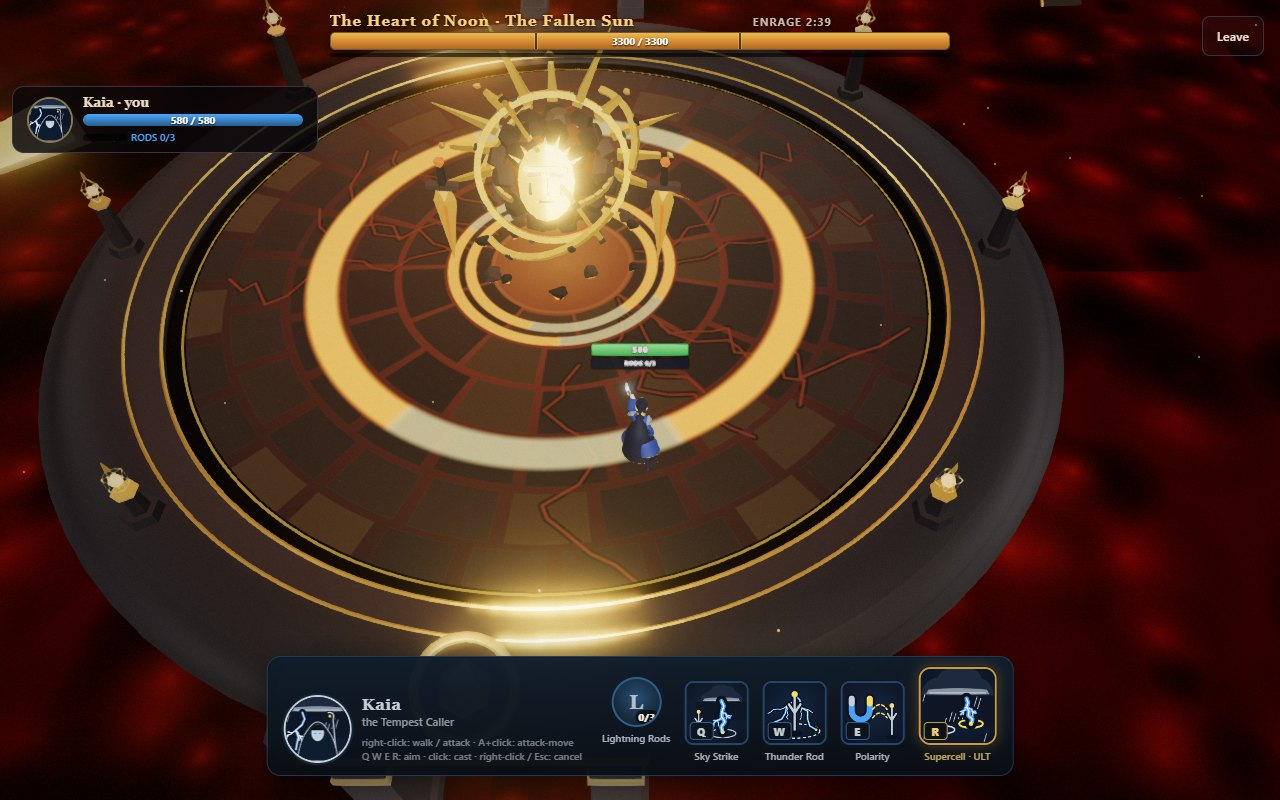
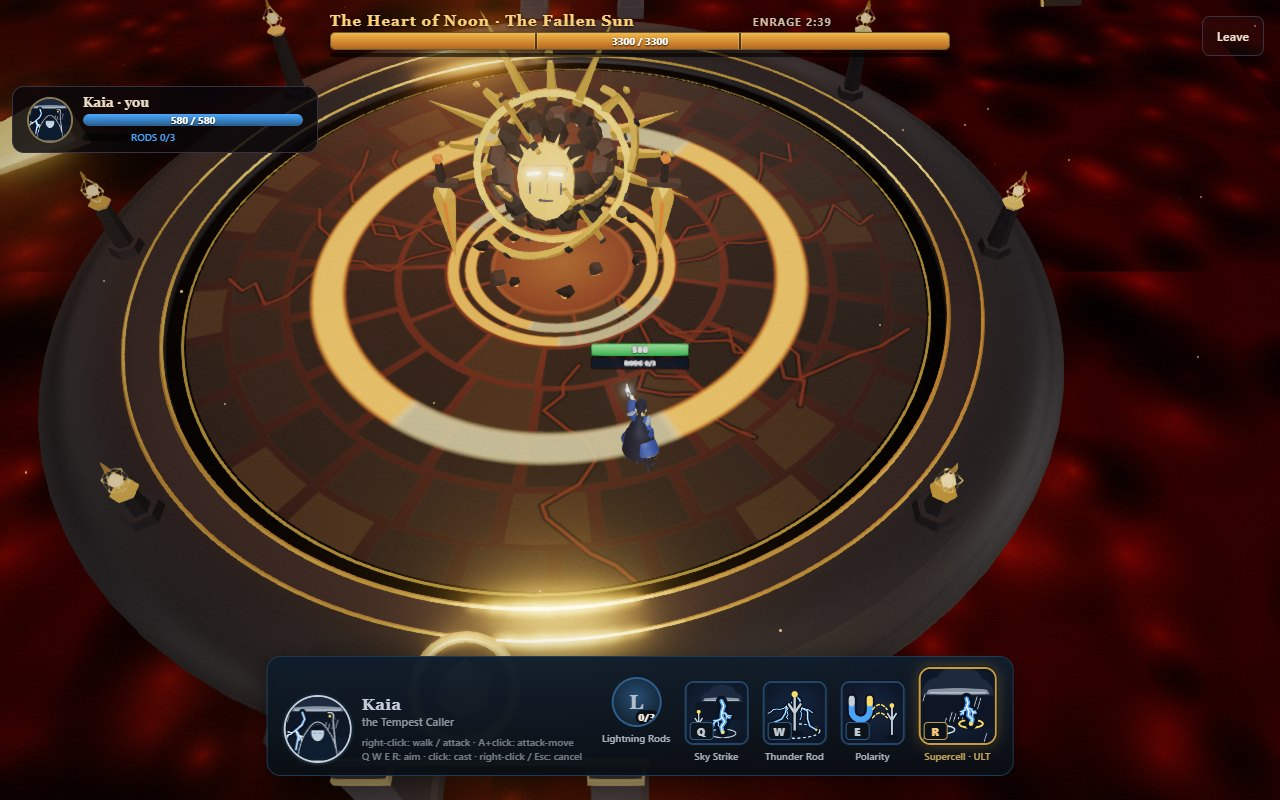
Raid: the Heart's face reads in the game: duller gold, its eyes lit on their own; pictures retaken

Changed region(s): [[0.2188, 0.0625, 0.6562, 0.5938]]

diff --git a/src/raid/bodies/heart.ts b/src/raid/bodies/heart.ts
@@ -28,7 +28,9 @@ const BLADE = { x: 3.15, y: 2.9, z: 0.5 };
 const GLOW_CORE = [0.09, 0.13, 0.19];
 /** However a cast or a beat swells it, the core never glows more than this many times its phase's own. */
 const GLOW_SWELL = 2.2;
-const GLOW_MASK = 0.14;
+const GLOW_MASK = 0.2;
+/** Its eyes, white fire: brighter than the rest of the face, small enough not to bloom it away. */
+const GLOW_EYES = 1.5;
 const GLOW_RING = 0.55;
 const GLOW_BLADE = 0.6;
 
@@ -63,7 +65,7 @@ export function resetHeartLive() {
   HEART_LIVE.struck = 99;
 }
 
-interface Mem { phase: number; kneel: number; spin: number[]; crown: number; beat: number }
+interface Mem { phase: number; kneel: number; spin: number[]; crown: number; beat: number; eyes: THREE.MeshStandardMaterial[] }
 const mem = new WeakMap<BodyParts, Mem>();
 const Q = new THREE.Quaternion();
 const Q2 = new THREE.Quaternion();
@@ -81,6 +83,8 @@ function spin(p: BodyParts, name: string, axis: THREE.Vector3, angle: number) {
  * the camera, caught the light whole and bloomed white, and the face is the point of the figure.
  */
 const MATTE = 0.58;
+const MASK_MATTE = 0.78;
+const MASK_TONE = 0.7;
 function matte(p: BodyParts) {
   for (const name of ['mask', 'crown', 'ringA', 'ringB', 'ringC', 'bladeL', 'bladeR']) {
     p.node(name)?.traverse((o) => {
@@ -88,7 +92,14 @@ function matte(p: BodyParts) {
       if (!mesh.isMesh) return;
       for (const mat of Array.isArray(mesh.material) ? mesh.material : [mesh.material]) {
         const std = mat as THREE.MeshStandardMaterial;
-        if (std.isMeshStandardMaterial && std.metalness > 0.5) std.roughness = Math.max(std.roughness, MATTE);
+        if (!std.isMeshStandardMaterial || std.metalness <= 0.5) continue;
+        std.roughness = Math.max(std.roughness, MATTE);
+        // The face a shade darker and duller still: it faces the camera and the sun at once.
+        if (name === 'mask') {
+          std.roughness = Math.max(std.roughness, MASK_MATTE);
+          std.metalness = Math.min(std.metalness, 0.6);
+          std.color.multiplyScalar(MASK_TONE);
+        }
       }
     });
   }
@@ -97,8 +108,13 @@ function matte(p: BodyParts) {
 export const heartLook: BodyLook = (s, p) => {
   let m = mem.get(p);
   if (!m) {
-    mem.set(p, m = { phase: s.phase, kneel: s.kneeling ? 1 : 0, spin: [0, 0, 0], crown: 0, beat: 0 });
+    mem.set(p, m = { phase: s.phase, kneel: s.kneeling ? 1 : 0, spin: [0, 0, 0], crown: 0, beat: 0, eyes: [] });
     matte(p);
+    p.node('mask')?.traverse((o) => {
+      const mesh = o as THREE.Mesh;
+      if (!mesh.isMesh) return;
+      for (const mat of Array.isArray(mesh.material) ? mesh.material : [mesh.material]) if (mat.name.endsWith('eyes')) m!.eyes.push(mat as THREE.MeshStandardMaterial);
+    });
   }
   const dt = Math.min(s.dt, 0.1);
   m.phase += (s.phase - m.phase) * Math.min(1, dt * 1.6);
@@ -240,6 +256,7 @@ export const heartLook: BodyLook = (s, p) => {
   // Its light, low under the bloom. The rings dim when locked.
   p.glow('core', coreGlow * alive);
   p.glow('mask', GLOW_MASK * maskGlow * alive);
+  for (const e of m.eyes) e.emissiveIntensity = GLOW_EYES * Math.min(2, maskGlow) * alive;
   p.glow('crown', (0.5 + noon * 0.4 + strike) * alive);
   RINGS.forEach((name, i) => p.glow(name, GLOW_RING * ringGlow * (0.25 + 0.75 * HEART_LIVE.rings[i].lit) * (1 + HEART_LIVE.rings[i].down * 0.6) * alive));
   p.glow('bladeL', GLOW_BLADE * alive);

diff --git a/pipeline/designs/raid-heart.md b/pipeline/designs/raid-heart.md
@@ -69,7 +69,8 @@ Rays 15 %. Tier extras: the Crown of Rays, then the rings, then the Heartbeat, f
 - **The plates fall as part of the Heartbeat's look,** not off the model: the crust is one mesh. A raised plate is cover on both
   screens (`addStone`) until the same moment after the cast.
 - **The gold of the face, crown, rings and blades is less polished in the game** (roughness 0.58, set in code): under the game's sun the
-  face, tilted up to the camera, bloomed white. Its glow is kept low as the other bosses' are. The Blender file is unchanged.
+  face, tilted up to the camera, bloomed white. The face itself is duller still and a shade darker, its eyes lit on their own. Its glow
+  is kept low as the other bosses' are. The Blender file is unchanged. The sheet's face beside the game's: `docs/bosses/heart-face-compare.jpg`.
 - **Its room's gates stand out in the lava** (`BossDef.gates.r`, 16.2 m): at the edge of so small a floor the way in stood over the
   bottom of the screen.
 
